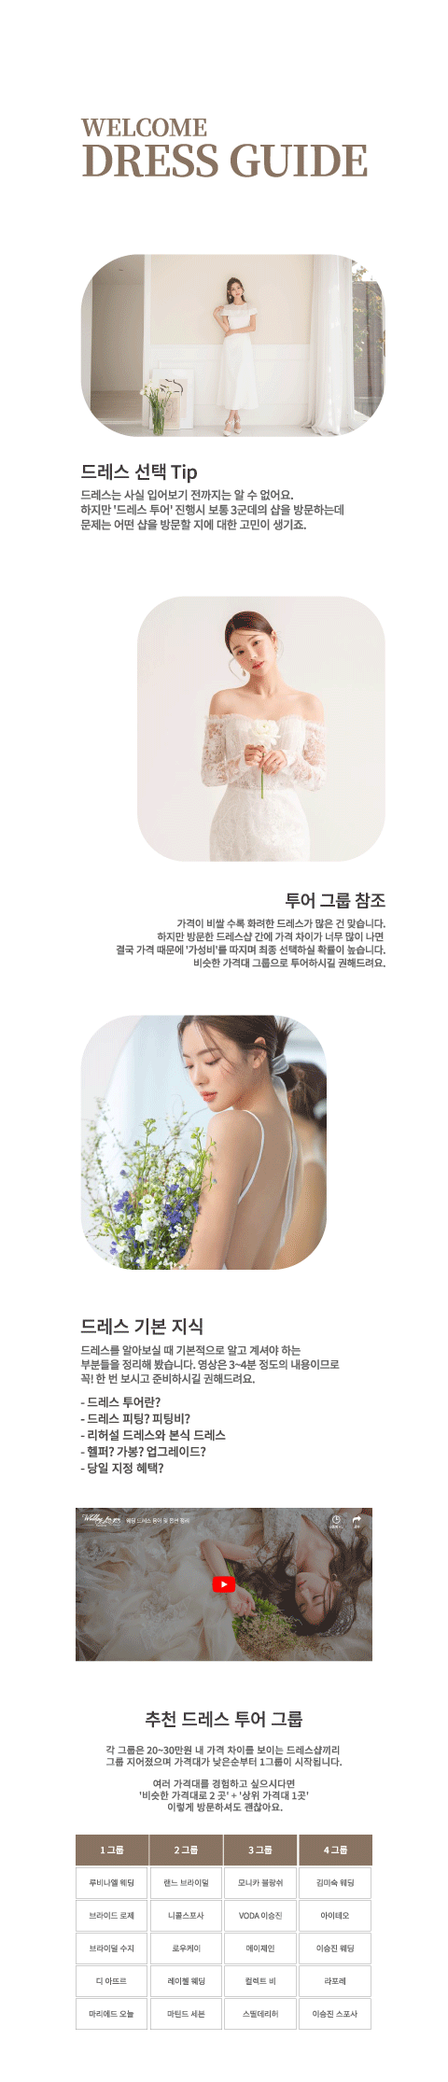
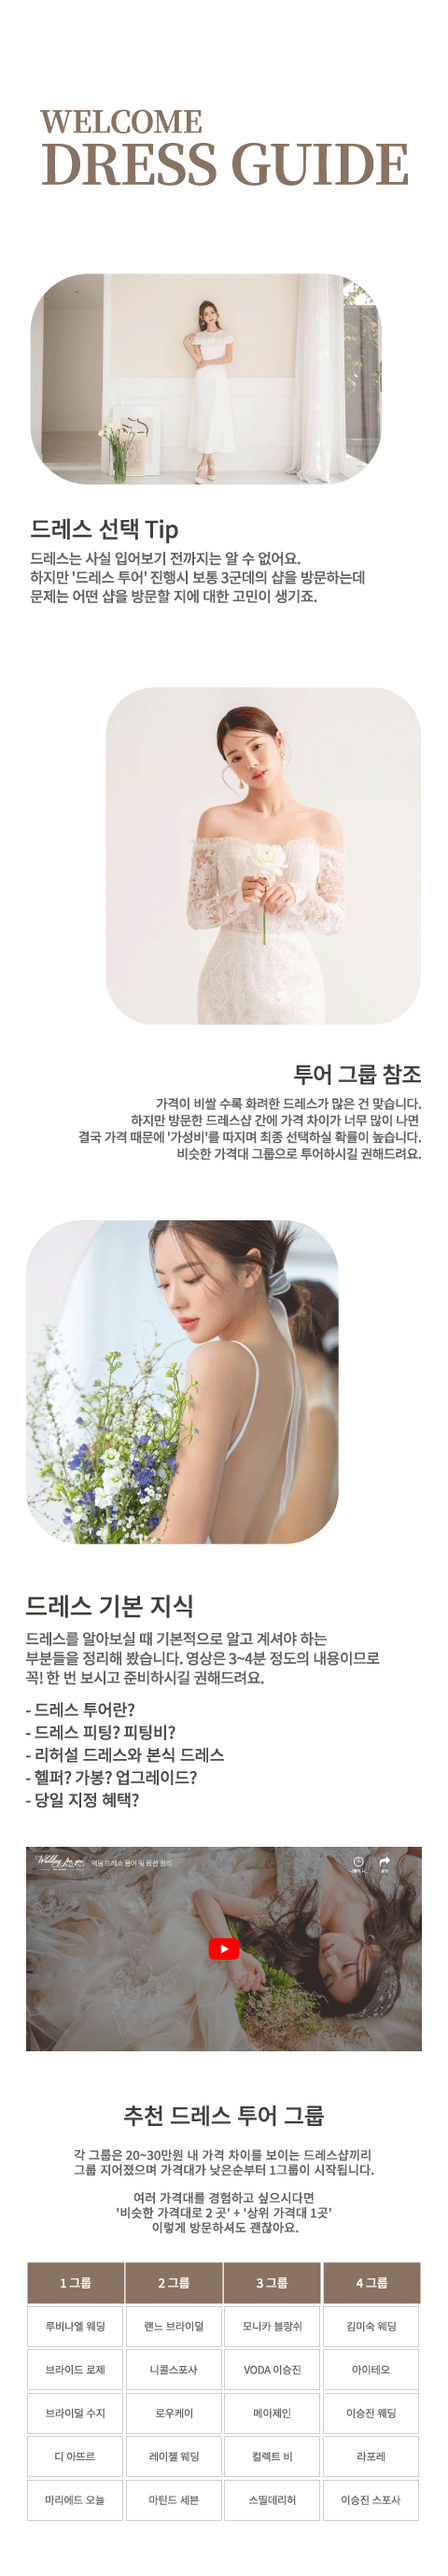
feat : BBBBB 찐마지막
ㅇㅇㅇㅇ

Changed region(s): [[0.0312, 0.0309, 0.9688, 0.9901], [0.7812, 0.6188, 0.8438, 0.6498]]

diff --git a/css/s_sdm.css b/css/s_sdm.css
@@ -1371,7 +1371,7 @@
     font-size: 38px;
   }
   .sdm_tip p {
-    font-size: 15px;
+    font-size: 14px;
   }
   .sdm_tip_three {
     display: flex;
